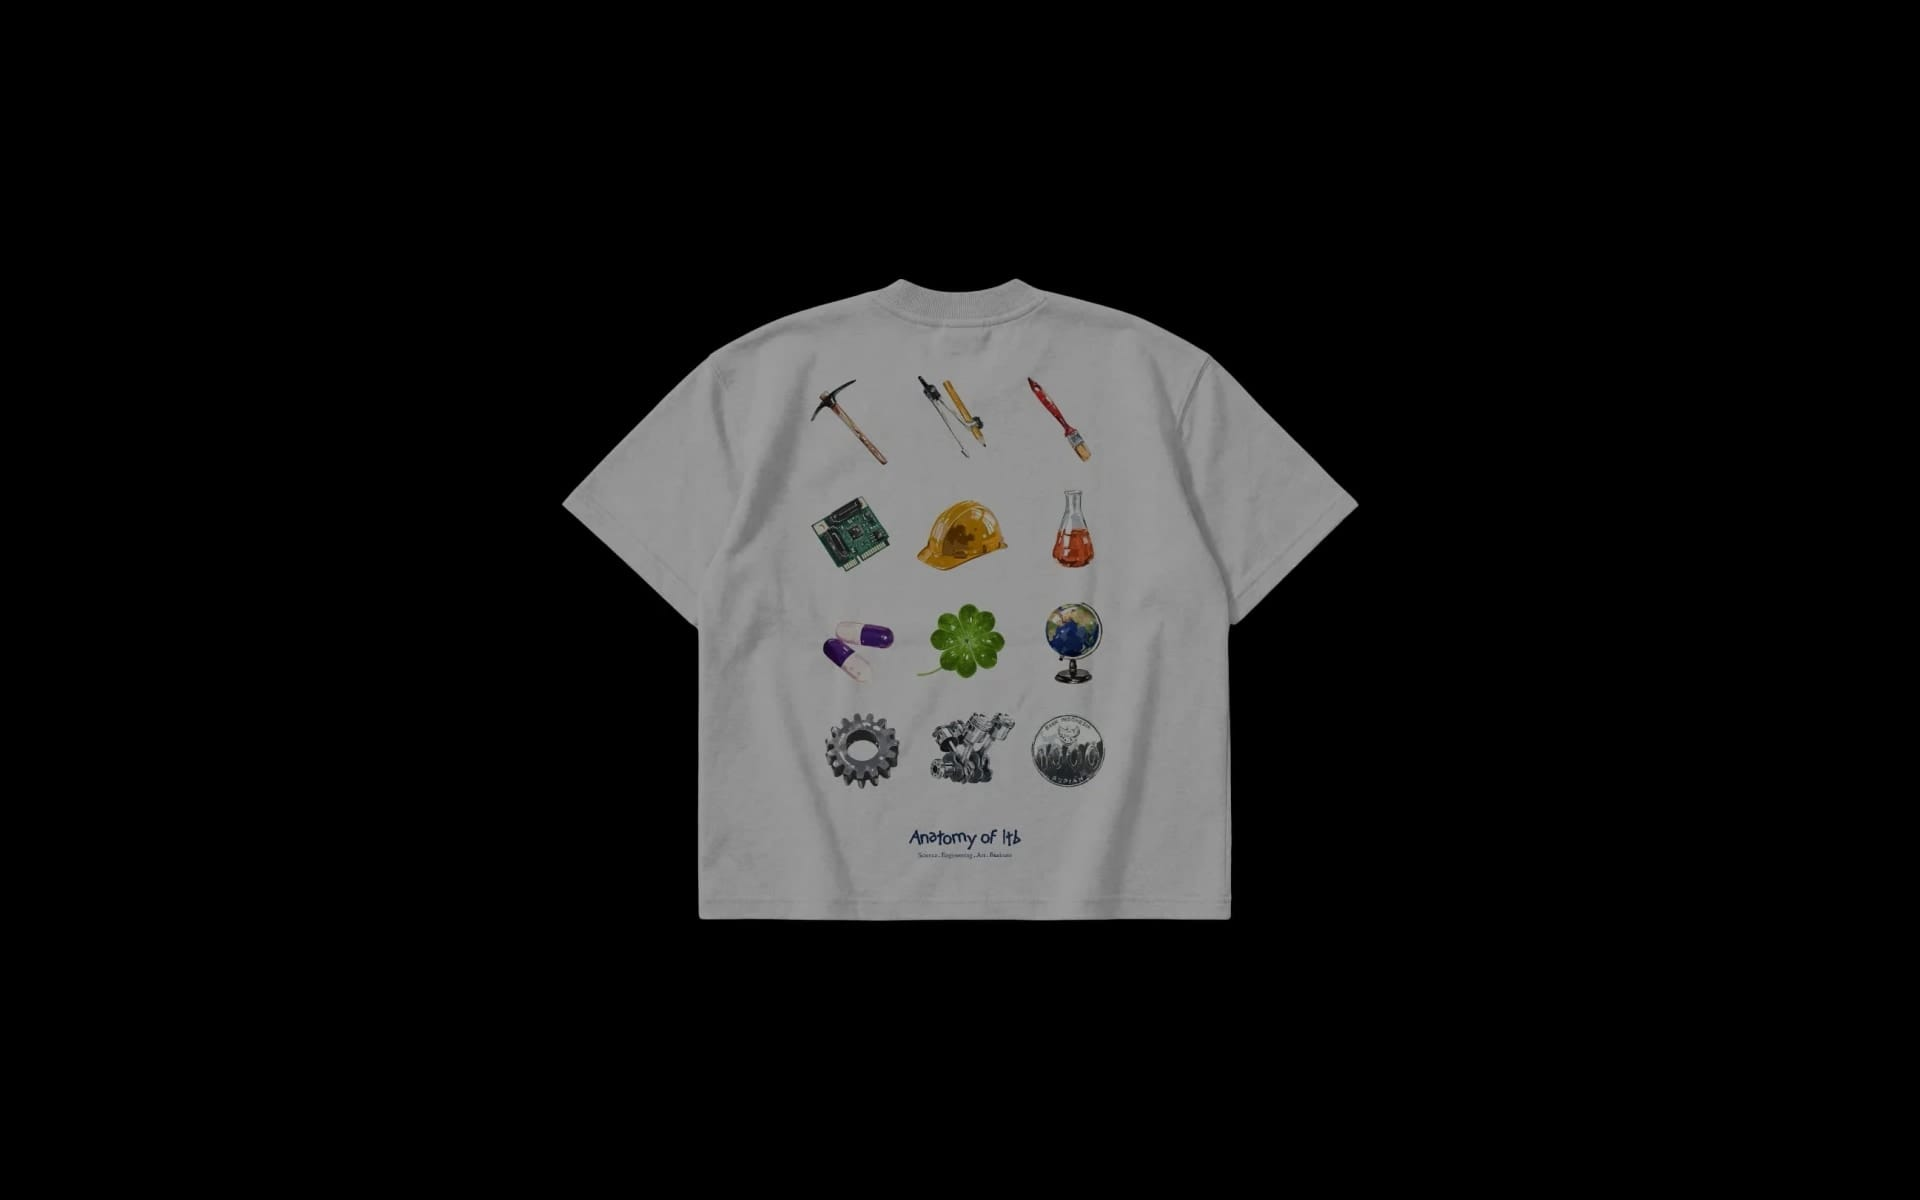
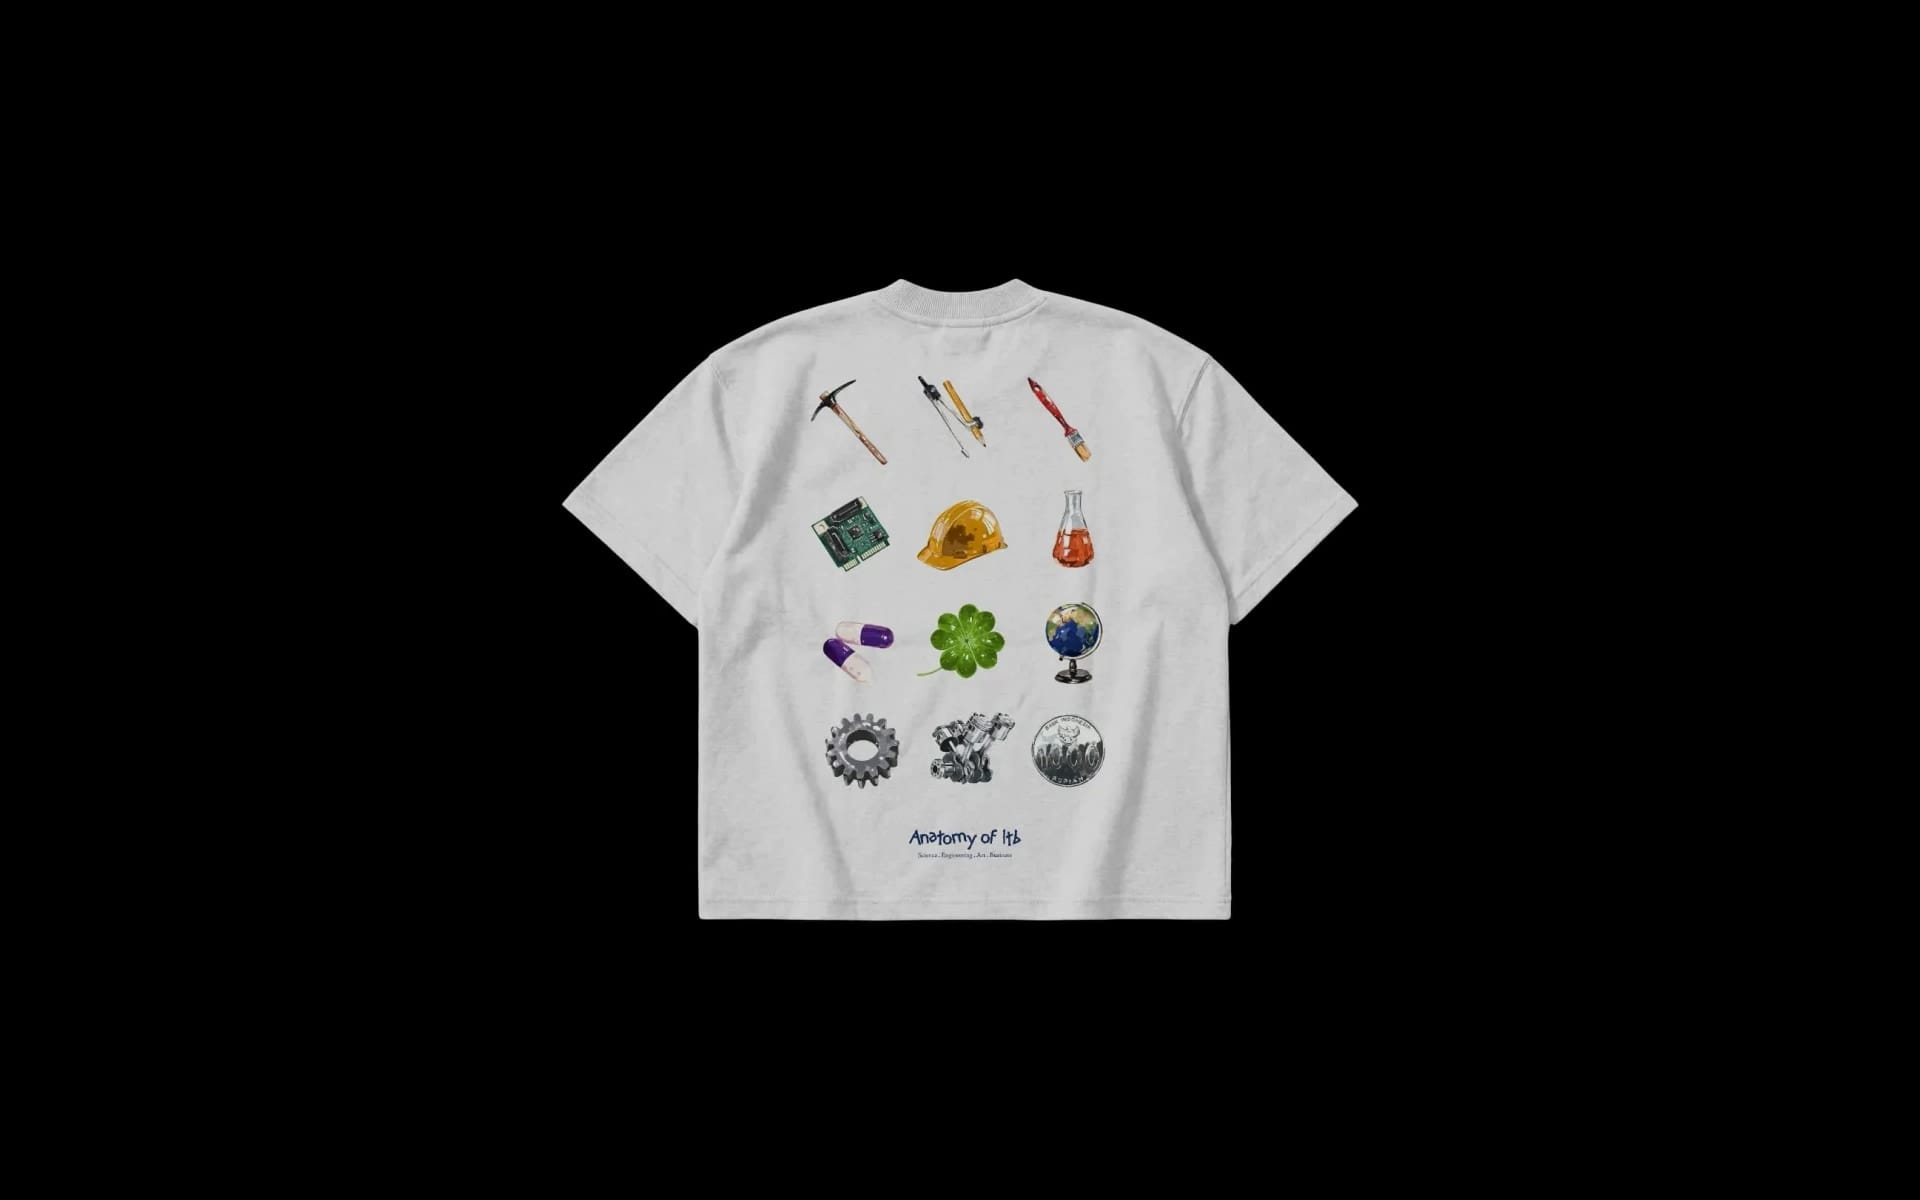
Anatomy of ITB: brighter cover, five more photos, ITB merchandise only
- cover dimmed to 85% instead of 62%
- gallery adds the blank shirt flat-lay, two screen-printing photos and two worn-shirt
  photos after my own front and back images (7 in total); credits updated
- context is now ITB / Merchandise; removed the old-address redirect

Changed region(s): [[0.2812, 0.2158, 0.7188, 0.7708]]

diff --git a/src/data/projects.js b/src/data/projects.js
@@ -82,11 +82,16 @@ const list = [
     tagline: 'Science, engineering, art, business',
     role: 'Designer',
     summary: ['A T-shirt that dissects ITB', 'into its parts: rows of', 'faculty codes on the chest,', 'and one object for each', 'field of study on the back.'],
-    context: ['KMSR ITB', 'Merchandise'],
+    context: ['ITB', 'Merchandise'],
     accent: ['#000000', '#1f2a6b'],
     gallery: [
       { group: 1, src: '/images/anatomy-of-itb/01.jpg', w: 1131, h: 1600, bg: '#000000', alt: 'Anatomy of ITB T-shirt, front: two rows of numbers in blue on the chest' },
       { group: 1, src: '/images/anatomy-of-itb/02.jpg', w: 1131, h: 1600, bg: '#000000', alt: 'Anatomy of ITB T-shirt, back: a grid of twelve objects above the words Anatomy of ITB — Science, Engineering, Art, Business' },
+      { group: 2, src: '/images/anatomy-of-itb/03.jpg', w: 1800, h: 1125, bg: '#ceccc6', alt: 'Blank white T-shirt laid flat with sneakers and a palm leaf' },
+      { group: 3, src: '/images/anatomy-of-itb/04.jpg', w: 1800, h: 1012, bg: '#6f766c', alt: 'Screen printing a shirt by hand, wearing gloves' },
+      { group: 3, src: '/images/anatomy-of-itb/05.jpg', w: 1800, h: 1012, bg: '#696b62', alt: 'Working at a screen-printing machine' },
+      { group: 4, src: '/images/anatomy-of-itb/06.jpg', w: 1200, h: 1500, bg: '#6f7071', alt: 'Person wearing a printed white T-shirt' },
+      { group: 4, src: '/images/anatomy-of-itb/07.jpg', w: 1200, h: 1500, bg: '#96999c', alt: 'Person in a white crew-neck T-shirt' },
     ],
   },
   {

diff --git a/public/images/CREDITS.md b/public/images/CREDITS.md
@@ -42,7 +42,12 @@ used until my own project photos replace it.
 
 ## anatomy-of-itb
 
-- all images — my own work (Anatomy of ITB T-shirt, front and back)
+- cover.jpg, 01.jpg, 02.jpg — my own work (Anatomy of ITB T-shirt, front and back)
+- 03.jpg — photo by [@mediamodifier](https://unsplash.com/@mediamodifier) — Unsplash image `1620799139507-2a76f79a2f4d`
+- 04.jpg — photo by [@ddography](https://unsplash.com/@ddography) — Unsplash image `1643216674491-33878507b402`
+- 05.jpg — photo by [@arcreates](https://unsplash.com/@arcreates) — Unsplash image `1663433567177-9f94be0bff4c`
+- 06.jpg — photo by [@rmanshin](https://unsplash.com/@rmanshin) — Unsplash image `1746899603348-ab9afd71e16d`
+- 07.jpg — photo by [@thamaramaura](https://unsplash.com/@thamaramaura) — Unsplash image `1628730992773-5185cc8efca9`
 
 ## interior-concept
 
